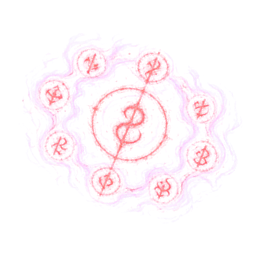
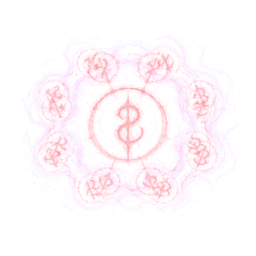
art2: curse_aura 无缝循环（外圈旋转+45°交叉淡化，中心符文静止呼吸，周期 8 帧）

diff --git a/tools/art2/gen_fx2.py b/tools/art2/gen_fx2.py
@@ -20,6 +20,12 @@ def put(canvas,sp,cx,cy,alpha=1.0,scale=1.0,rot=0):
     canvas.alpha_composite(sp,(int(cx-sp.width/2),int(cy-sp.height/2)))  # 允许越界裁切
 def safe_put(c,sp,cx,cy,**k):
     tmp=Image.new('RGBA',(S*3,S*3)); put(tmp,sp,cx+S,cy+S,**k); c.alpha_composite(tmp.crop((S,S,2*S,2*S)))
+def split_ring(p,r0=0.40,feather=0.06):
+    # 以半径 r0（相对半宽）为界拆成外圈/中心两层，边界羽化，两层相加=原图
+    w,h=p.size; yy,xx=np.mgrid[0:h,0:w]; r=np.hypot(xx-w/2,yy-h/2)/(min(w,h)/2)
+    m=np.clip((r-(r0-feather))/(2*feather),0,1); a=np.asarray(p).astype(np.float32)
+    o=a.copy(); o[...,3]*=m; i=a.copy(); i[...,3]*=1-m
+    return Image.fromarray(o.astype(np.uint8)),Image.fromarray(i.astype(np.uint8))
 def frames(id):
     sp=load(id); fr=[]
     for k in range(N):
@@ -28,8 +34,14 @@ def frames(id):
             p=fit(sp,(150,60)); safe_put(c,p,-40+t*300,128,alpha=1.0 if t<0.55 else max(0,1-(t-0.55)/0.45))
         elif id in('poison_nova','corpse_explosion'):  # 由小到大 + 淡出
             p=fit(sp,(250,250)); safe_put(c,p,128,128,scale=0.2+0.85*t**0.7,alpha=1.0 if t<0.5 else max(0,1-(t-0.5)/0.5)*0.95+0.05*(k<N-1))
-        elif id=='curse_aura':         # 缓慢旋转，可循环（8 帧转 45°，符文 8 重对称，首尾衔接）
-            p=fit(sp,(230,230)); safe_put(c,p,128,128,rot=-k*45/N,alpha=0.92)
+        elif id=='curse_aura':         # 外圈缓慢旋转 + 中心符文静止呼吸；无缝循环
+            # 外圈：rot(θk) 与 rot(θk-45°) 按 k/N 交叉淡化，θk=k·45°/N；第 N 帧恰等于第 0 帧 → 7→0 无缝
+            p=fit(sp,(230,230)); outer,inner=split_ring(p)
+            w=k/N; th=-k*45/N
+            ring=Image.new('RGBA',(S,S)); safe_put(ring,outer,128,128,rot=th,alpha=0.92*(1-w))
+            r2=Image.new('RGBA',(S,S)); safe_put(r2,outer,128,128,rot=th+45,alpha=0.92*w)
+            c.alpha_composite(ring); c.alpha_composite(r2)
+            safe_put(c,inner,128,128,alpha=0.80+0.20*math.cos(2*math.pi*k/N))  # 呼吸，周期=8 帧
         elif id=='bone_prison':        # 从下往上升起（底部遮罩），末帧略淡
             p=fit(sp,(220,150)); h=p.height; rise=min(1,t/0.7)
             y=230-h/2*rise-h/2*(1-rise)+h*(1-rise); tmp=Image.new('RGBA',(S,S)); safe_put(tmp,p,128,y)
